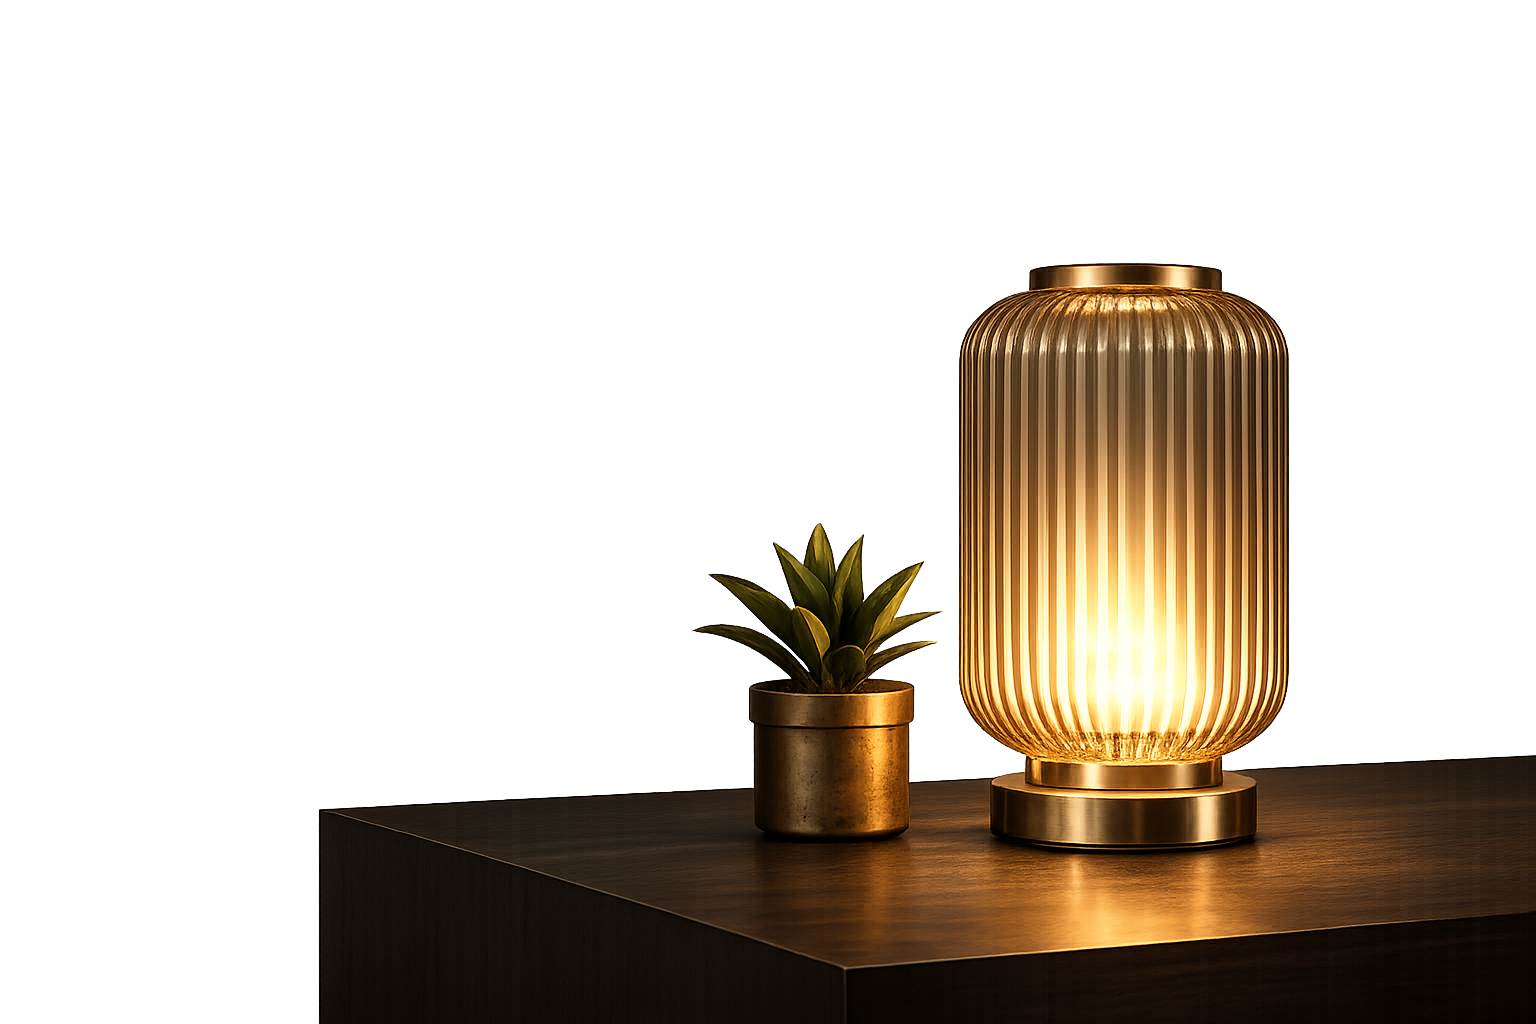
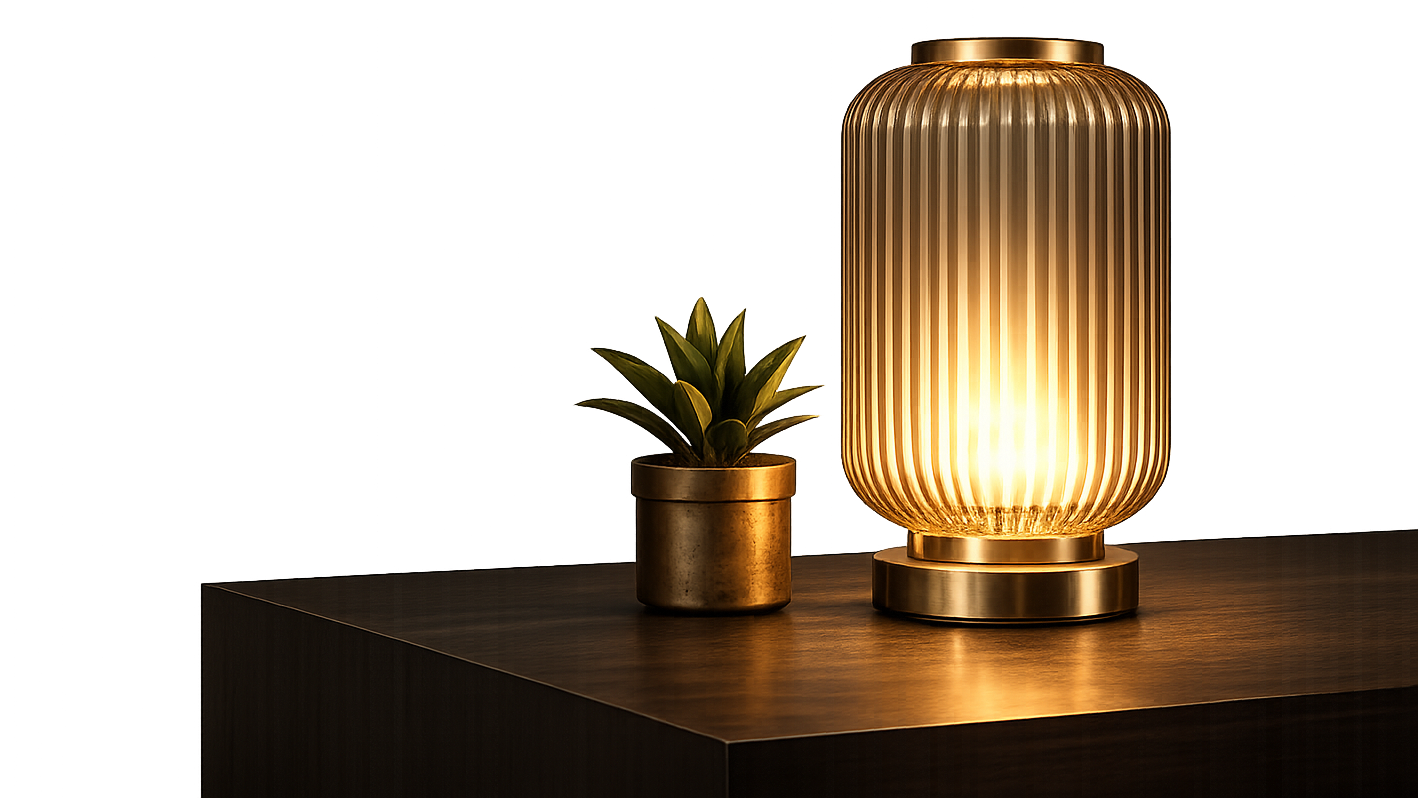
fix: section spacing specificity, hero page layout, component updates
- Move section py-18/mb-32 rule out of @layer base for proper specificity
- Hero page layout adjustments
- CTA component styling updates
- Partners/clients component tweaks
- Optimize about-image.png

diff --git a/src/app/(hero)/page.tsx b/src/app/(hero)/page.tsx
@@ -28,20 +28,20 @@ import { CTA } from "@/components/hero/cta";
 export default function Home() {
   return (
     <main>
-      <section className="relative h-[90dvh] overflow-hidden flex justify-center items-center px-6">
+      <section className="relative h-[95dvh] overflow-hidden flex justify-center items-center px-6">
         <Image
           src={HeroImage}
           alt="hero image"
           priority
           className="absolute top-0 right-0 -z-10 h-full w-full object-cover"
         />
-        <div className="space-y-8">
-          <div className="lg:w-1/2 space-y-4">
-            <h1 className="text-balance">
+        <div className="space-y-8 container">
+          <div className="lg:w-[65%] space-y-4">
+            <h1 className="text-pretty max-sm:text-5xl">
               A house is only as warm as its{" "}
               <span className="text-gold">light</span>
             </h1>
-            <p>
+            <p className="lg:text-lg">
               Pendants, chandeliers, and architectural fixtures for homes and
               commercial spaces across Pakistan. Chosen for how a room feels
               once the switch is on, not just how the fixture looks when
@@ -49,7 +49,7 @@ export default function Home() {
             </p>
           </div>
 
-          <Button size="lg" className="group">
+          <Button size="lg" className="group py-7 font-bold">
             Shop Collection
             <HugeiconsIcon
               icon={ArrowUpRight01FreeIcons}
@@ -104,7 +104,7 @@ export default function Home() {
                     width={1024}
                     height={1024}
                     alt={id}
-                    className="absolute top-0 right-0 w-full h-full -z-10 object-cover"
+                    className="absolute top-0 right-0 w-full h-full -z-10 object-cover brightness-170"
                   />
                 </Link>
               )}
@@ -124,19 +124,19 @@ export default function Home() {
               {({ id, title, price }, index) => (
                 <Link href="#" className="border">
                   <Image
-                    src={`/products/${index+1}.png`}
+                    src={`/products/${index + 1}.png`}
                     width={1024}
                     height={1024}
                     alt={id}
-                    className="w-full h-80 -z-10 object-contain bg-muted"
+                    className="h-80 aspect-square -z-10 object-contain bg-muted"
                   />
                   <div className="p-4">
-                    <h3 className="text-xl">{title}</h3>
+                    <h3 className="text-xl font-sans">{title}</h3>
                     <div className="flex items-center justify-between">
-                      <p className="text-gold uppercase tracking-widest">
+                      <p className="text-muted-foreground font-semibold uppercase font-heading">
                         {price}
                       </p>
-                      <Button variant="secondary">
+                      <Button variant="secondary" className="rounded-full">
                         <HugeiconsIcon icon={PlusSignIcon} />
                       </Button>
                     </div>
@@ -148,10 +148,11 @@ export default function Home() {
         </section>
       </div>
 
-      <section className="bg-noise py-0  flex max-lg:flex-col items-center justify-between overflow-x-hidden">
-        <div className="container max-lg:pt-10 lg:ml-28">
+      <section className="bg-noise pb-0 lg:pt-0 grid lg:grid-cols-5 place-items-center overflow-hidden">
+        <div className="container max-lg:pt-10 lg:ml-28 space-y-6 lg:col-start-1 lg:col-span-2 lg:row-start-1 z-10">
           <h2 className="text-primary">About Lighthouse</h2>
-          <p className="max-w-2xl text-wrap">
+
+          <p className="max-w-2xl">
             For years, Light House has helped homeowners, architects, and
             businesses create warm, inviting spaces. We carefully source premium
             lighting that blends quality, performance, and timeless design. Our
@@ -159,23 +160,30 @@ export default function Home() {
             of every room.
           </p>
 
-          <Button size="lg" className="mt-6">
+          <Button size="lg" className="mt-2">
             Learn More <HugeiconsIcon icon={ArrowRight02Icon} />
           </Button>
         </div>
 
         <Image
-          src={"/about-image.png"}
+          src="/about-image.png"
           width={1024}
           height={1024}
           priority
           alt=""
-          className="hover:brightness-125 transition-all"
+          className="
+          w-full
+            lg:col-start-3
+            lg:col-span-5
+            lg:row-start-1
+            hover:brightness-125
+            transition-all
+          "
         />
       </section>
 
-      <div className="container">
-        <section>
+      <section className="bg-muted mb-0">
+        <div className="container">
           <SectionHeader
             title="Lighting That Transforms Every Space"
             description="Explore a selection of residential and commercial projects featuring our premium lighting solutions, designed to enhance ambience, functionality and style."
@@ -203,7 +211,9 @@ export default function Home() {
               )}
             </For>
           </div>
-        </section>
+        </div>
+      </section>
+      <div className="container">
         <Clients />
       </div>
 
@@ -218,14 +228,12 @@ export default function Home() {
           />
           <div className="grid md:grid-cols-3 gap-4">
             <For each={featuredBlogs} by={(blog) => blog.title}>
-              {(blog) => (
-                <BlogCard {...blog} />
-              )}
+              {(blog) => <BlogCard {...blog} />}
             </For>
           </div>
         </div>
       </section>
-      <div className="container">
+      <div className="container space-y-32">
         <Partners />
         <CTA />
       </div>

diff --git a/src/app/globals.css b/src/app/globals.css
@@ -192,13 +192,13 @@
     --sidebar-ring: oklch(0.6 0.2 264);
 }
 
-@utility container{
+@utility container {
     margin-inline: auto;
     padding-inline: 1rem;
 }
 
-@utility bg-noise{
-    background-image: url('/noise-bg.png');
+@utility bg-noise {
+    background-image: url("/noise-bg.png");
     background-size: cover;
 }
 
@@ -223,7 +223,7 @@
 
     h1 {
         @apply text-6xl;
-        font-size: clamp(45px, 5vw, 64px);
+        font-size: clamp(70px, 5vw, 60px);
     }
 
     p {
@@ -231,11 +231,12 @@
     }
 
     section {
-        @apply py-8;
+        @apply py-18;
         & + section {
             @apply mb-32;
         }
     }
+    
     button:not(:disabled),
     [role="button"]:not(:disabled) {
         cursor: pointer;
@@ -282,8 +283,8 @@
     animation: glance-in 0.5s cubic-bezier(0.22, 1, 0.36, 1) both;
 }
 
-@layer components {    
-    .heading-underline{
+@layer components {
+    .heading-underline {
         position: relative;
         padding-bottom: 20px;
     }
@@ -294,7 +295,7 @@
         left: 0;
         height: 4px;
         width: 70%;
-        background: var(--gold)
+        background: var(--gold);
     }
 
     .blog-prose {

diff --git a/src/components/hero/cta.tsx b/src/components/hero/cta.tsx
@@ -1,7 +1,4 @@
-import Image from "next/image";
 import { Button } from "@/components/ui/button";
-import { ArrowRight02Icon } from "@hugeicons/core-free-icons";
-import { HugeiconsIcon } from "@hugeicons/react";
 
 export function CTA() {
   return (
@@ -9,11 +6,11 @@ export function CTA() {
       backgroundImage: "url('/cta-image.png')"
     }}>
       <div className="relative z-10 mx-auto text-center max-w-7xl px-6">
-        <div className="max-w-2xl space-y-6">
-          <h2 className="text-secondary-foreground leading-tight md:text-5xl">
+        <div className="max-w-3xl space-y-6">
+          <h2 className="text-secondary-foreground leading-tight md:text-6xl">
             Bring your vision to light
           </h2>
-          <p className="leading-relaxed text-balance">
+          <p className="leading-relaxed max-w-[80%] mx-auto">
             From statement pieces to complete lighting solutions, we&apos;ll help you find fixtures that suit your space and style.
           </p>
           <Button size="lg" className="group mx-auto">

diff --git a/src/components/shop/product-grid-toolbar.tsx b/src/components/shop/product-grid-toolbar.tsx
@@ -81,7 +81,7 @@ export function ProductGridToolbar({ products, total }: ProductGridToolbarProps)
           {products.map((product) => (
             <div
               key={product.id}
-              className="group flex flex-col justify-between rounded-xl border border-border/80 bg-card overflow-hidden shadow-sm hover:shadow-md transition-all duration-300"
+              className="group flex flex-col justify-between rounded border border-border/80 bg-card overflow-hidden shadow-sm hover:shadow-md transition-all duration-300"
             >
               <Link href={`/products/${product.slug}`} className="block relative aspect-square bg-muted/30 overflow-hidden">
                 <Image

diff --git a/src/components/shared/partners.tsx b/src/components/shared/partners.tsx
@@ -10,7 +10,7 @@ export function Partners() {
         description="We work directly with globally recognized manufacturers, so every fixture we sell is backed by proven engineering, not just looks."
         noCta
       />
-      <div className="flex items-center max-md:justify-center flex-wrap gap-x-18">
+      <div className="flex items-center max-md:justify-center flex-wrap gap-x-18 gay-y-10">
         <For each={partners} by={(partner) => partner.id}>
           {({ id, name, imageURL }) => (
             <img

diff --git a/src/components/shared/clients.tsx b/src/components/shared/clients.tsx
@@ -10,7 +10,7 @@ export function Clients() {
         description="From residential homes to commercial projects, our clients trust us to bring every space to life with premium lighting."
         noCta
       />
-      <div className="flex items-center max-md:justify-center flex-wrap gap-x-18 gap-y-6">
+      <div className="flex items-center max-md:justify-center flex-wrap gap-x-18 gap-y-10">
         <For each={clients} by={(client) => client.id}>
           {({ id, name, imageURL }) => (
             <img
